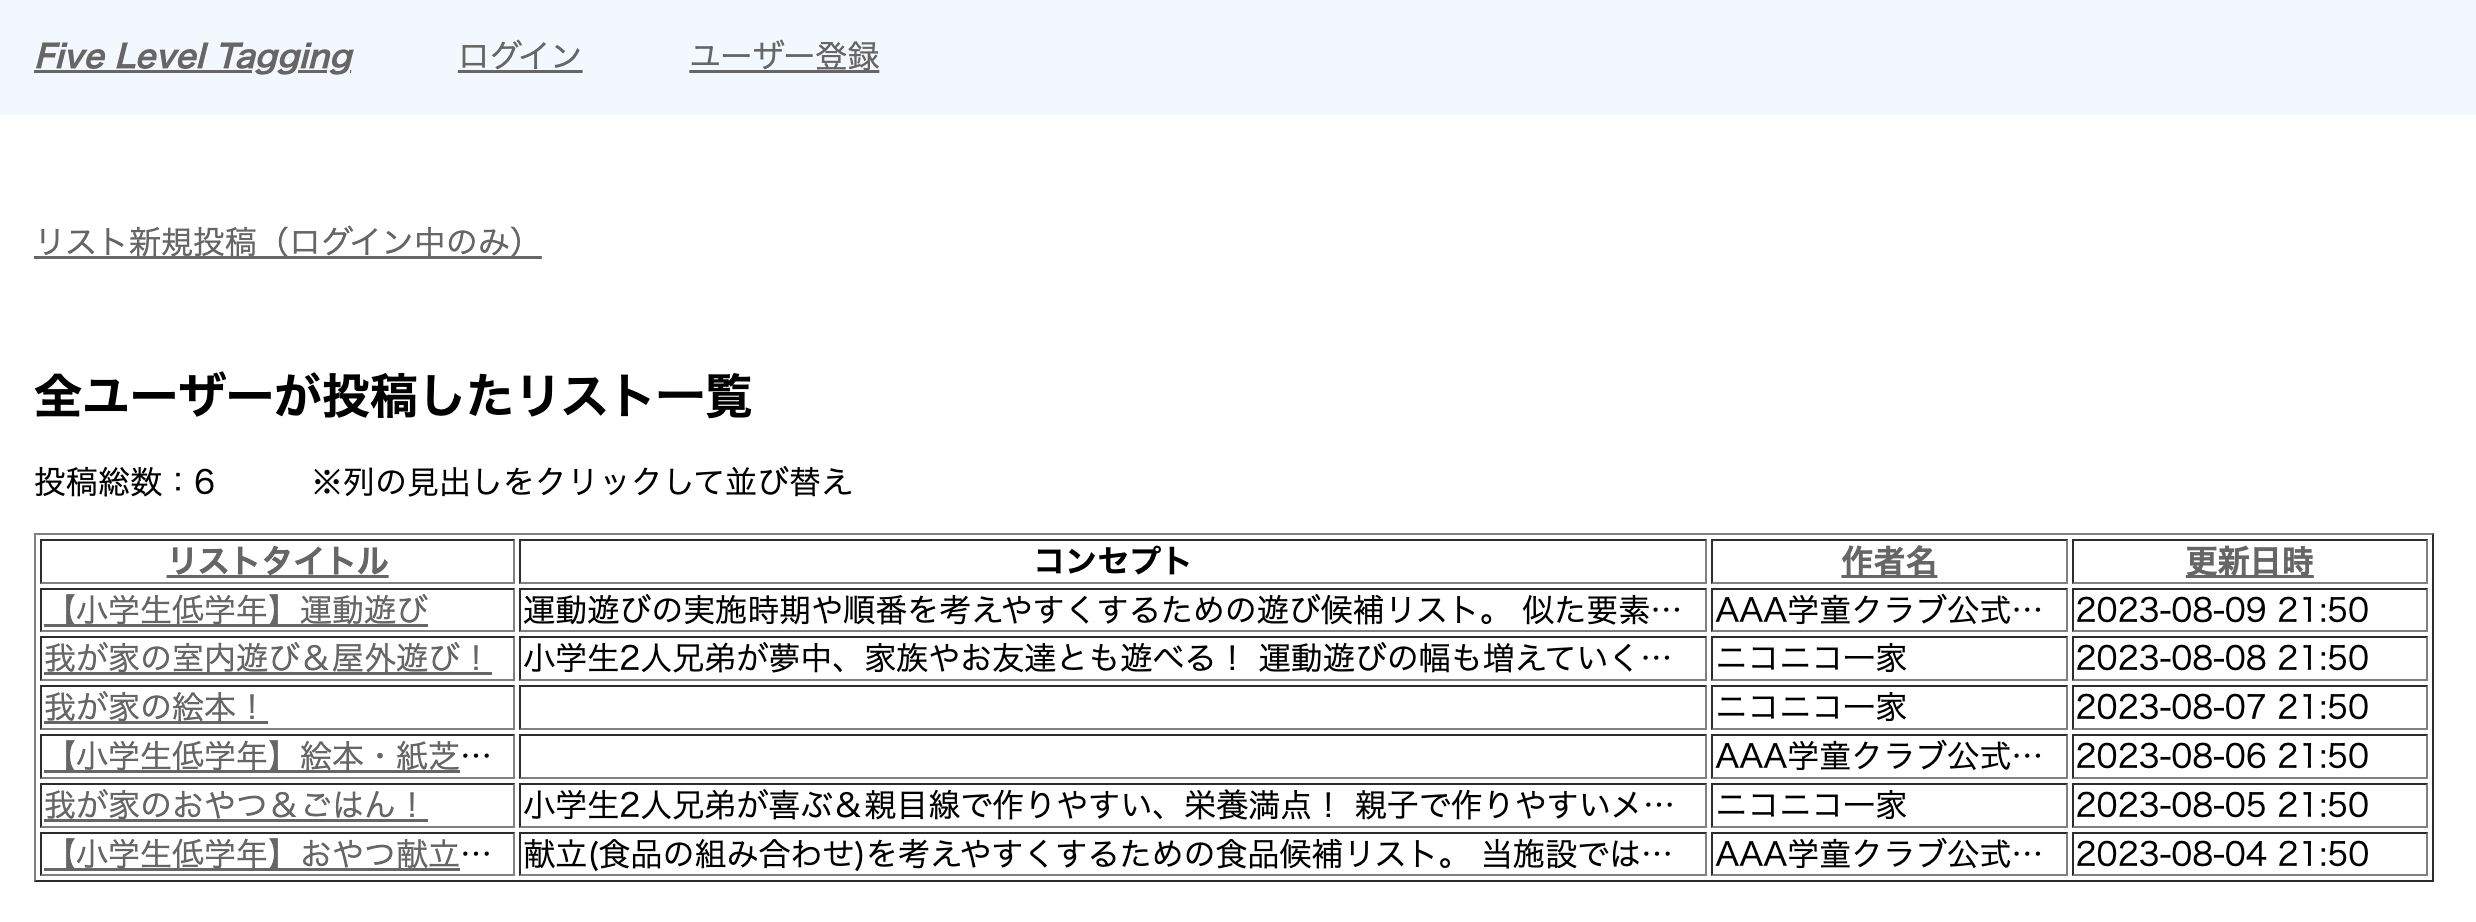
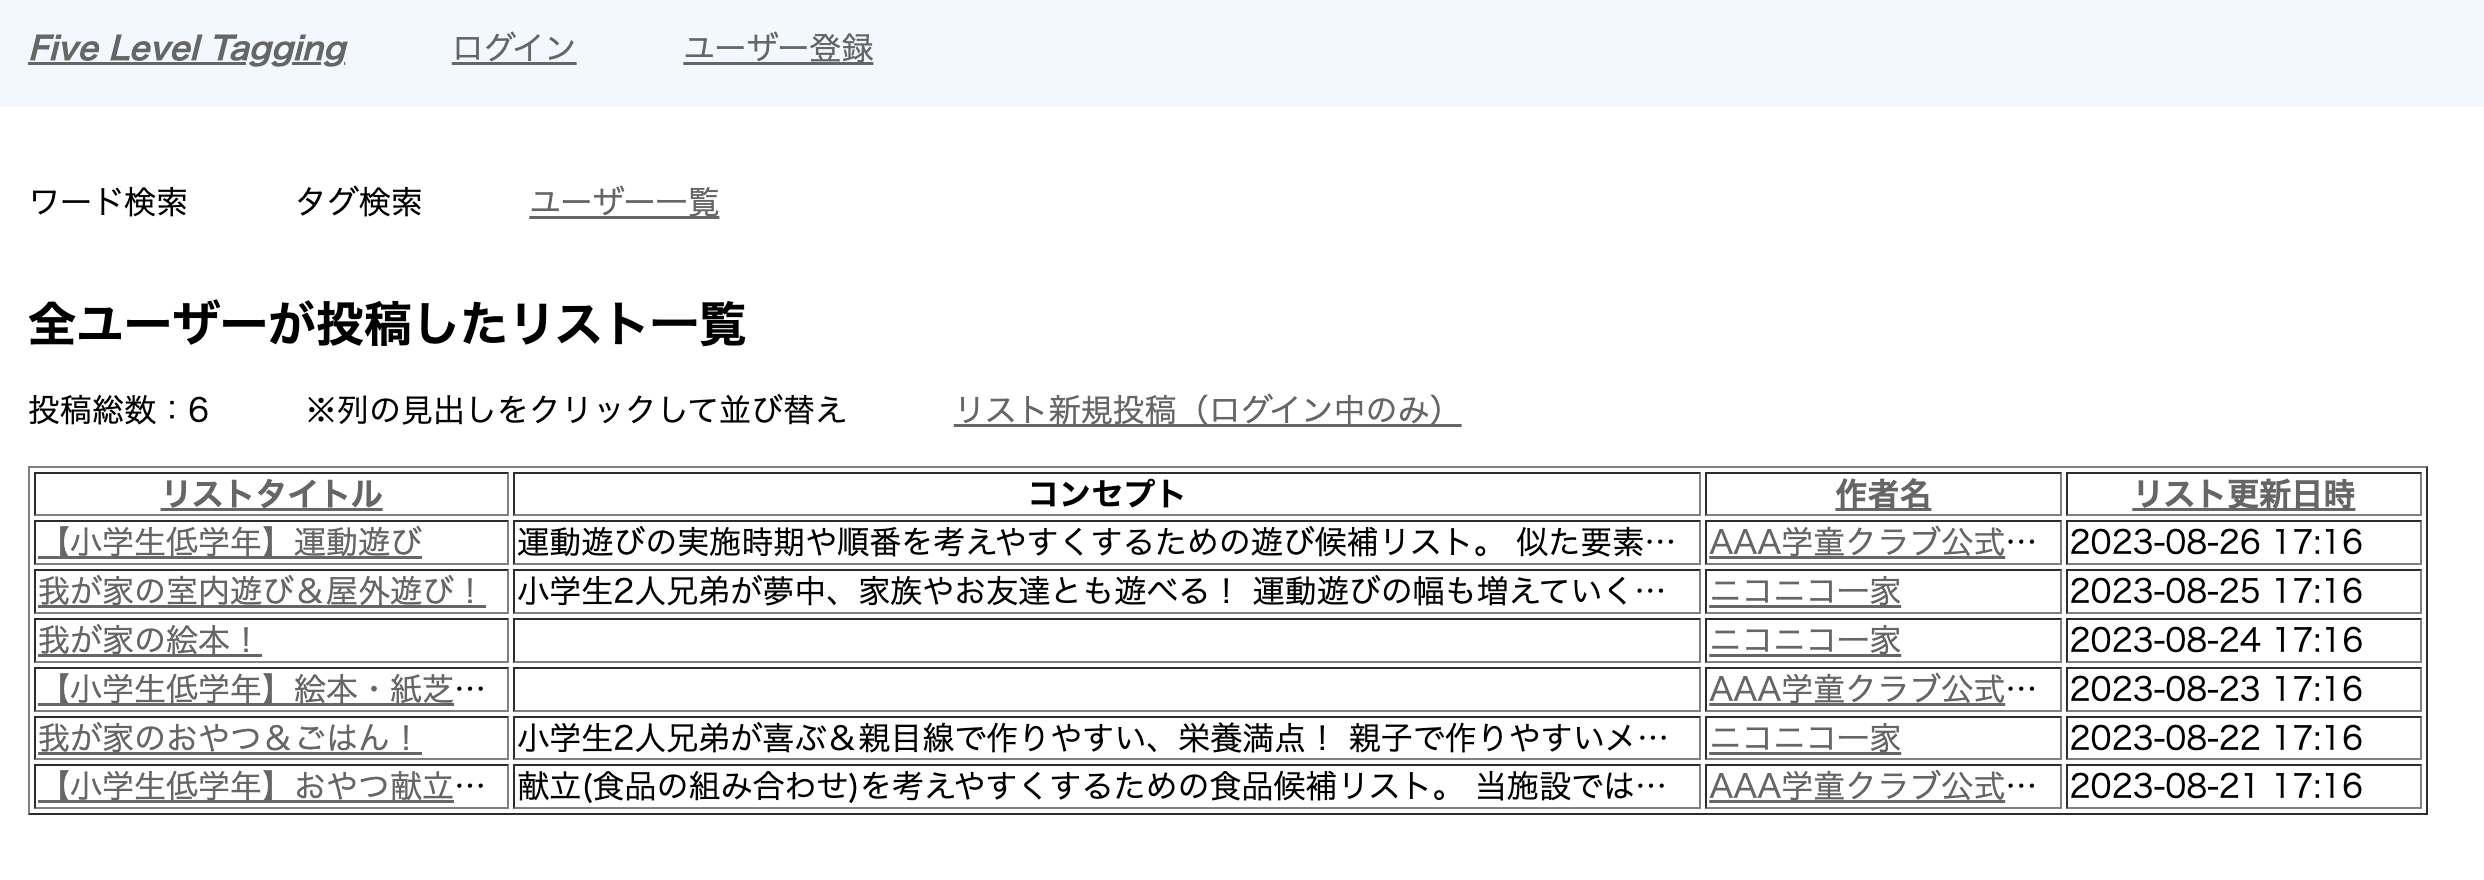
#10-3 ユーザー：編集・削除 (devise)
ユーザー編集画面：自身のユーザー情報を編集・更新。　※現在のパスワードを入力せずに(入力欄が空欄のままで)、ユーザー情報を更新。別のパスワードを入力すると、パスワード変更。
ユーザー削除機能(ユーザー詳細画面)：自身のユーザーアカウントを削除。紐づくリスト・アイテム・スコアも全て削除。

diff --git a/app/controllers/users/registrations_controller.rb b/app/controllers/users/registrations_controller.rb
@@ -1,0 +1,72 @@
+# frozen_string_literal: true
+
+class Users::RegistrationsController < Devise::RegistrationsController
+  # before_action :configure_sign_up_params, only: [:create]
+  # before_action :configure_account_update_params, only: [:update]
+
+  # GET /resource/sign_up
+  # def new
+  #   super
+  # end
+
+  # POST /resource
+  # def create
+  #   super
+  # end
+
+  # GET /resource/edit
+  # def edit
+  #   super
+  # end
+
+  # PUT /resource
+  # def update
+  #   super
+  # end
+
+  # DELETE /resource
+  # def destroy
+  #   super
+  # end
+
+  # GET /resource/cancel
+  # Forces the session data which is usually expired after sign
+  # in to be expired now. This is useful if the user wants to
+  # cancel oauth signing in/up in the middle of the process,
+  # removing all OAuth session data.
+  # def cancel
+  #   super
+  # end
+
+  protected
+
+  # app/models/user.rb (def update_without_current_password)
+  # ：現在のパスワードを入力せずに(入力欄が空欄のままで)、ユーザー情報更新。別のパスワードを入力すると、パスワード変更。
+  def update_resource(resource, params)
+    resource.update_without_current_password(params)
+  end
+
+  def after_update_path_for(resource)
+    user_path(@user.id)
+  end
+
+  # If you have extra params to permit, append them to the sanitizer.
+  # def configure_sign_up_params
+  #   devise_parameter_sanitizer.permit(:sign_up, keys: [:attribute])
+  # end
+
+  # If you have extra params to permit, append them to the sanitizer.
+  # def configure_account_update_params
+  #   devise_parameter_sanitizer.permit(:account_update, keys: [:attribute])
+  # end
+
+  # The path used after sign up.
+  # def after_sign_up_path_for(resource)
+  #   super(resource)
+  # end
+
+  # The path used after sign up for inactive accounts.
+  # def after_inactive_sign_up_path_for(resource)
+  #   super(resource)
+  # end
+end

diff --git a/app/models/user.rb b/app/models/user.rb
@@ -10,4 +10,17 @@ class User < ApplicationRecord
   validates :real_name, :user_name, presence: true, length: { maximum: 30 }
   validates :contact, length: { maximum: 100 }
   validates :profile, length: { maximum: 200 }
+
+  # app/controllers/users/registrations_controller.rb (def update_resource)
+  # ：現在のパスワードを入力せずに(入力欄が空欄のままで)、ユーザー情報更新。別のパスワードを入力すると、パスワード変更。
+  def update_without_current_password(params, *options)
+    if params[:password].blank? && params[:password_confirmation].blank?
+      params.delete(:password)
+      params.delete(:password_confirmation)
+    end
+
+    result = update(params, *options)
+    clean_up_passwords
+    result
+  end
 end

diff --git a/app/controllers/users/omniauth_callbacks_controller.rb b/app/controllers/users/omniauth_callbacks_controller.rb
@@ -1,0 +1,30 @@
+# frozen_string_literal: true
+
+class Users::OmniauthCallbacksController < Devise::OmniauthCallbacksController
+  # You should configure your model like this:
+  # devise :omniauthable, omniauth_providers: [:twitter]
+
+  # You should also create an action method in this controller like this:
+  # def twitter
+  # end
+
+  # More info at:
+  # https://github.com/heartcombo/devise#omniauth
+
+  # GET|POST /resource/auth/twitter
+  # def passthru
+  #   super
+  # end
+
+  # GET|POST /users/auth/twitter/callback
+  # def failure
+  #   super
+  # end
+
+  # protected
+
+  # The path used when OmniAuth fails
+  # def after_omniauth_failure_path_for(scope)
+  #   super(scope)
+  # end
+end

diff --git a/app/controllers/users/confirmations_controller.rb b/app/controllers/users/confirmations_controller.rb
@@ -1,0 +1,30 @@
+# frozen_string_literal: true
+
+class Users::ConfirmationsController < Devise::ConfirmationsController
+  # GET /resource/confirmation/new
+  # def new
+  #   super
+  # end
+
+  # POST /resource/confirmation
+  # def create
+  #   super
+  # end
+
+  # GET /resource/confirmation?confirmation_token=abcdef
+  # def show
+  #   super
+  # end
+
+  # protected
+
+  # The path used after resending confirmation instructions.
+  # def after_resending_confirmation_instructions_path_for(resource_name)
+  #   super(resource_name)
+  # end
+
+  # The path used after confirmation.
+  # def after_confirmation_path_for(resource_name, resource)
+  #   super(resource_name, resource)
+  # end
+end

diff --git a/app/controllers/users/passwords_controller.rb b/app/controllers/users/passwords_controller.rb
@@ -1,0 +1,34 @@
+# frozen_string_literal: true
+
+class Users::PasswordsController < Devise::PasswordsController
+  # GET /resource/password/new
+  # def new
+  #   super
+  # end
+
+  # POST /resource/password
+  # def create
+  #   super
+  # end
+
+  # GET /resource/password/edit?reset_password_token=abcdef
+  # def edit
+  #   super
+  # end
+
+  # PUT /resource/password
+  # def update
+  #   super
+  # end
+
+  # protected
+
+  # def after_resetting_password_path_for(resource)
+  #   super(resource)
+  # end
+
+  # The path used after sending reset password instructions
+  # def after_sending_reset_password_instructions_path_for(resource_name)
+  #   super(resource_name)
+  # end
+end

diff --git a/app/controllers/users/unlocks_controller.rb b/app/controllers/users/unlocks_controller.rb
@@ -1,0 +1,30 @@
+# frozen_string_literal: true
+
+class Users::UnlocksController < Devise::UnlocksController
+  # GET /resource/unlock/new
+  # def new
+  #   super
+  # end
+
+  # POST /resource/unlock
+  # def create
+  #   super
+  # end
+
+  # GET /resource/unlock?unlock_token=abcdef
+  # def show
+  #   super
+  # end
+
+  # protected
+
+  # The path used after sending unlock password instructions
+  # def after_sending_unlock_instructions_path_for(resource)
+  #   super(resource)
+  # end
+
+  # The path used after unlocking the resource
+  # def after_unlock_path_for(resource)
+  #   super(resource)
+  # end
+end

diff --git a/app/controllers/users/sessions_controller.rb b/app/controllers/users/sessions_controller.rb
@@ -1,0 +1,27 @@
+# frozen_string_literal: true
+
+class Users::SessionsController < Devise::SessionsController
+  # before_action :configure_sign_in_params, only: [:create]
+
+  # GET /resource/sign_in
+  # def new
+  #   super
+  # end
+
+  # POST /resource/sign_in
+  # def create
+  #   super
+  # end
+
+  # DELETE /resource/sign_out
+  # def destroy
+  #   super
+  # end
+
+  # protected
+
+  # If you have extra params to permit, append them to the sanitizer.
+  # def configure_sign_in_params
+  #   devise_parameter_sanitizer.permit(:sign_in, keys: [:attribute])
+  # end
+end

diff --git a/app/controllers/application_controller.rb b/app/controllers/application_controller.rb
@@ -12,5 +12,6 @@ class ApplicationController < ActionController::Base
 
   def configure_permitted_parameters
     devise_parameter_sanitizer.permit(:sign_up, keys: [:real_name, :user_name, :contact, :profile])
+    devise_parameter_sanitizer.permit(:account_update, keys: [:real_name, :user_name, :contact, :profile])
   end
 end

diff --git a/config/routes.rb b/config/routes.rb
@@ -1,5 +1,5 @@
 Rails.application.routes.draw do
-  devise_for :users
+  devise_for :users, controllers: { registrations: "users/registrations" }
   root to: "lists#index"
   resources :lists do
     resources :items, except: [:index, :show]

diff --git a/README.md b/README.md
@@ -39,9 +39,11 @@
 
 　(4 ※未実装)ワード検索やタグ検索により、他ユーザーの投稿したリストやアイテムを表示する。  
 
-　(5 ※未実装)他ユーザーをフォローする。直近で投稿・更新されたリストを、フォロー一覧から確認できる。  
-　他ユーザーのリストをマイリスト登録し、一覧表示する。  
-　自作リストの公開範囲を限定する。閲覧できるユーザーや、共同編集できるユーザーを指定できる。  
+　(5)他ユーザーが更新した最新のリスト名を、ユーザー一覧(※実装済み)やフォロー一覧(※未実装)で表示する。  
+
+　(6 ※未実装)他ユーザーのリストをマイリスト登録し、一覧表示する。  
+
+　(7 ※未実装)自作リストの公開範囲を限定する。閲覧できるユーザーや、共同編集できるユーザーを指定できる。  
 <br>
 <br>
 
@@ -138,10 +140,34 @@
 <br>
 <br>
 
-## 2-2. 実装予定
-### 2-2-4. ユーザー詳細ページの表示
+### 2-1-4. ユーザー情報の表示、最新リストタイトルの表示
+　(1)トップページ(＝リスト一覧ページ)で、ユーザー一覧をクリックする。  
+　(2)ユーザー一覧ページの並び替えボタン(列の見出し)をクリックするたびに、昇順・降順を切り替える(ユーザー名・最新リストタイトル・最新リスト更新日時)。  
+　(3)ユーザー一覧ページで、最新リストタイトルをクリックすると、リスト詳細ページを表示する。  
+<br>
+/users  
+![画像：2-1-4(3)feature](app/assets/images/readme/2-1-4(3)feature.png)
+<br>
+<br>
 <br>
 
+　(4)ヘッダー／リスト一覧・詳細ページ／ユーザー一覧ページで、ユーザー名をクリックすると、ユーザー詳細ページを表示する。  
+<br>
+/users/1  
+![画像：2-1-4(4)feature](app/assets/images/readme/2-1-4(4)feature.png)
+<br>
+<br>
+<br>
+　(5)自身のユーザー詳細ページで、ユーザー編集をクリックする。  
+　※パスワードは、変更したい時だけ入力する。変更したくない時は空欄のまま送信する。  
+<br>
+/users/edit  
+![画像：2-1-4(5)feature](app/assets/images/readme/2-1-4(5)feature.png)
+<br>
+<br>
+<br>
+
+## 2-2. 実装予定
 ### 2-2-5. ワード検索：リスト・アイテムの表示
 <br>
 
@@ -156,7 +182,7 @@
 ### 2-2-3(3) 自作アイテム一覧：ドラッグ＆ドロップによる並び替え、順番保存(JavaScript)
 <br>
 
-### 2-2-7. ユーザーのフォロー：各ユーザーが直近で更新したリストの表示
+### 2-2-7. ユーザーのフォロー、最新リストタイトルの表示
 <br>
 
 ### 2-2-8. マイリスト登録
